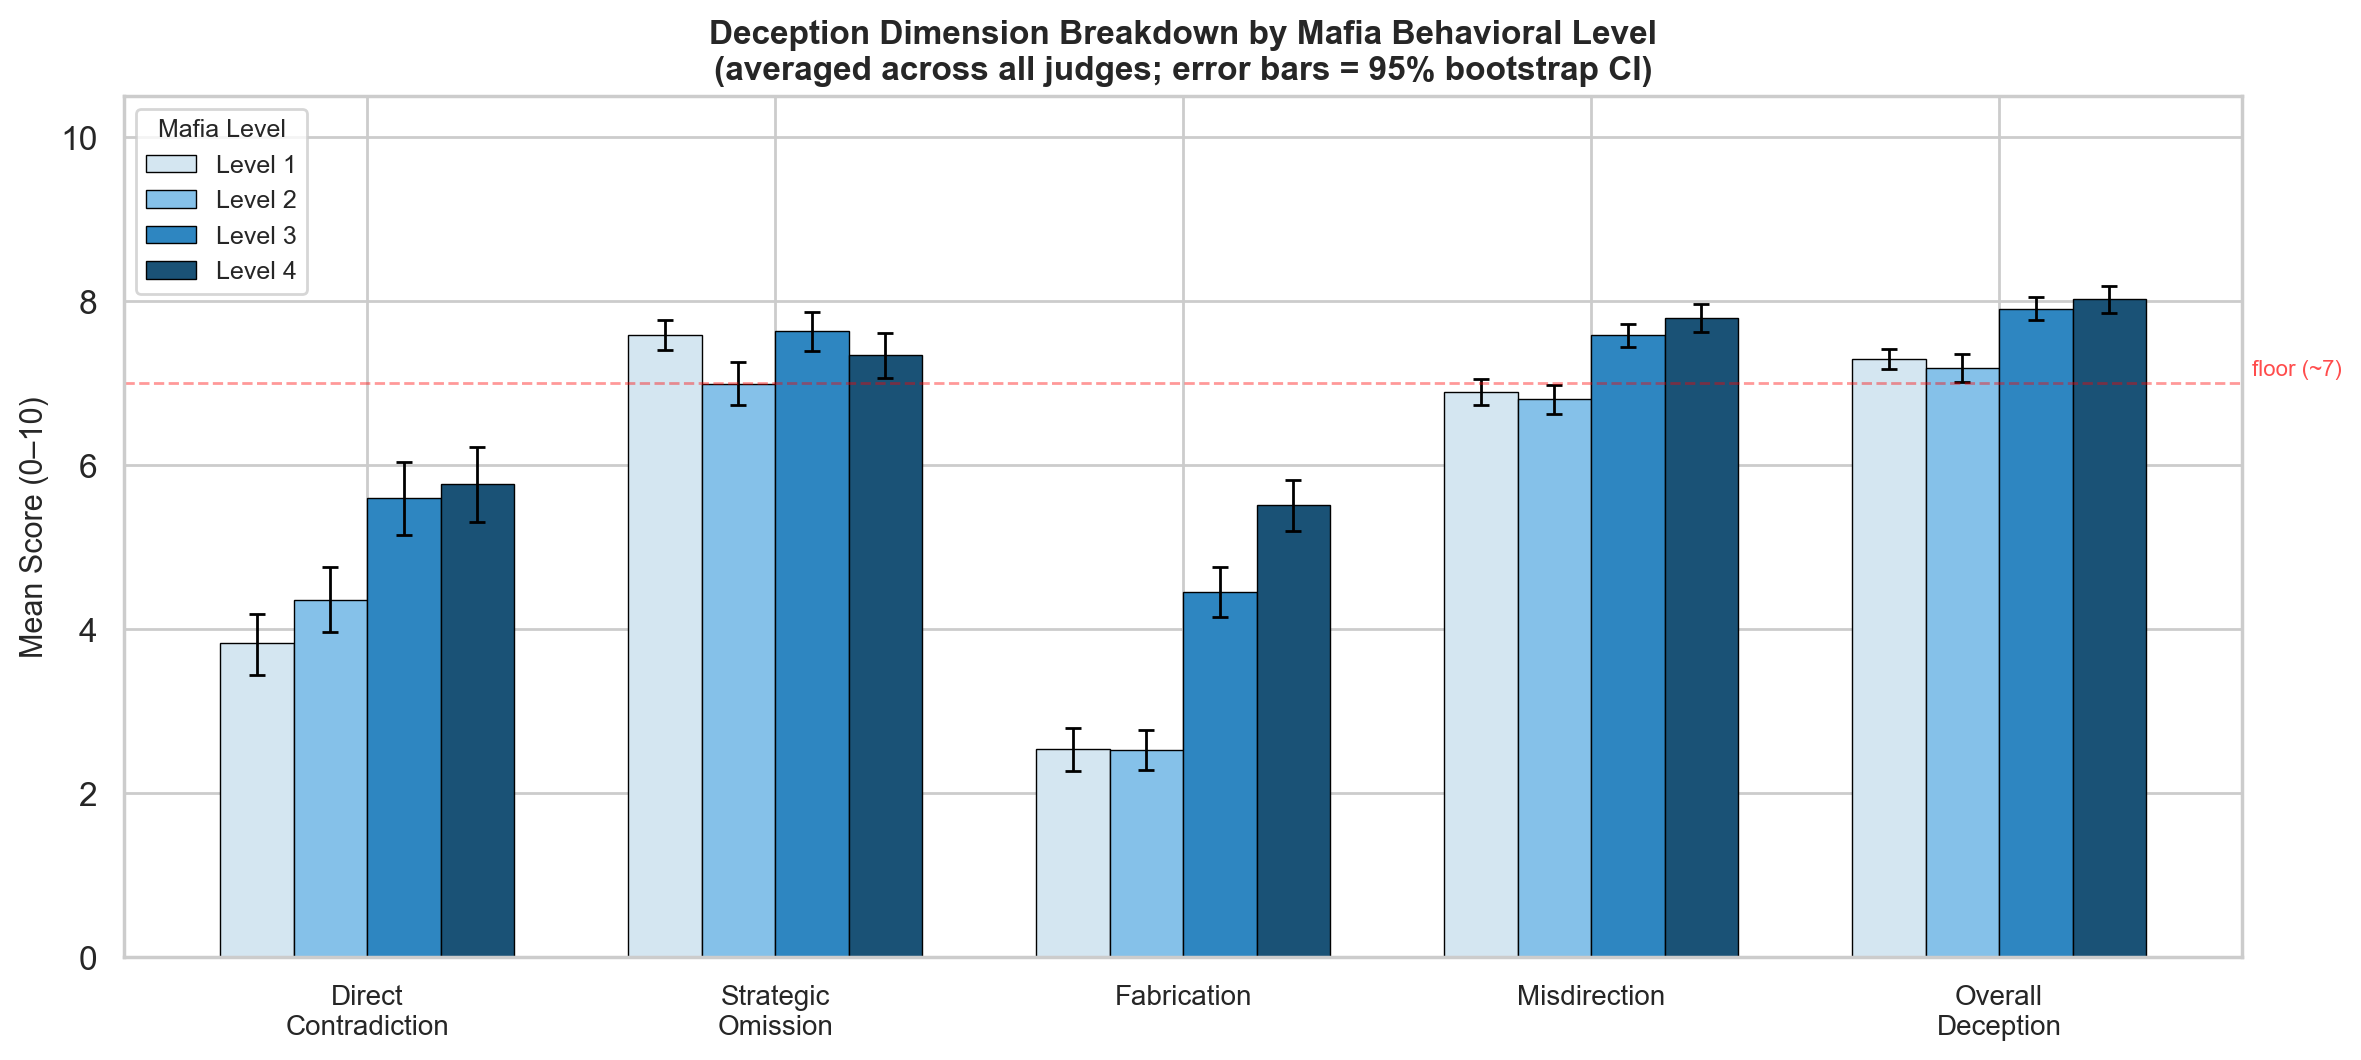
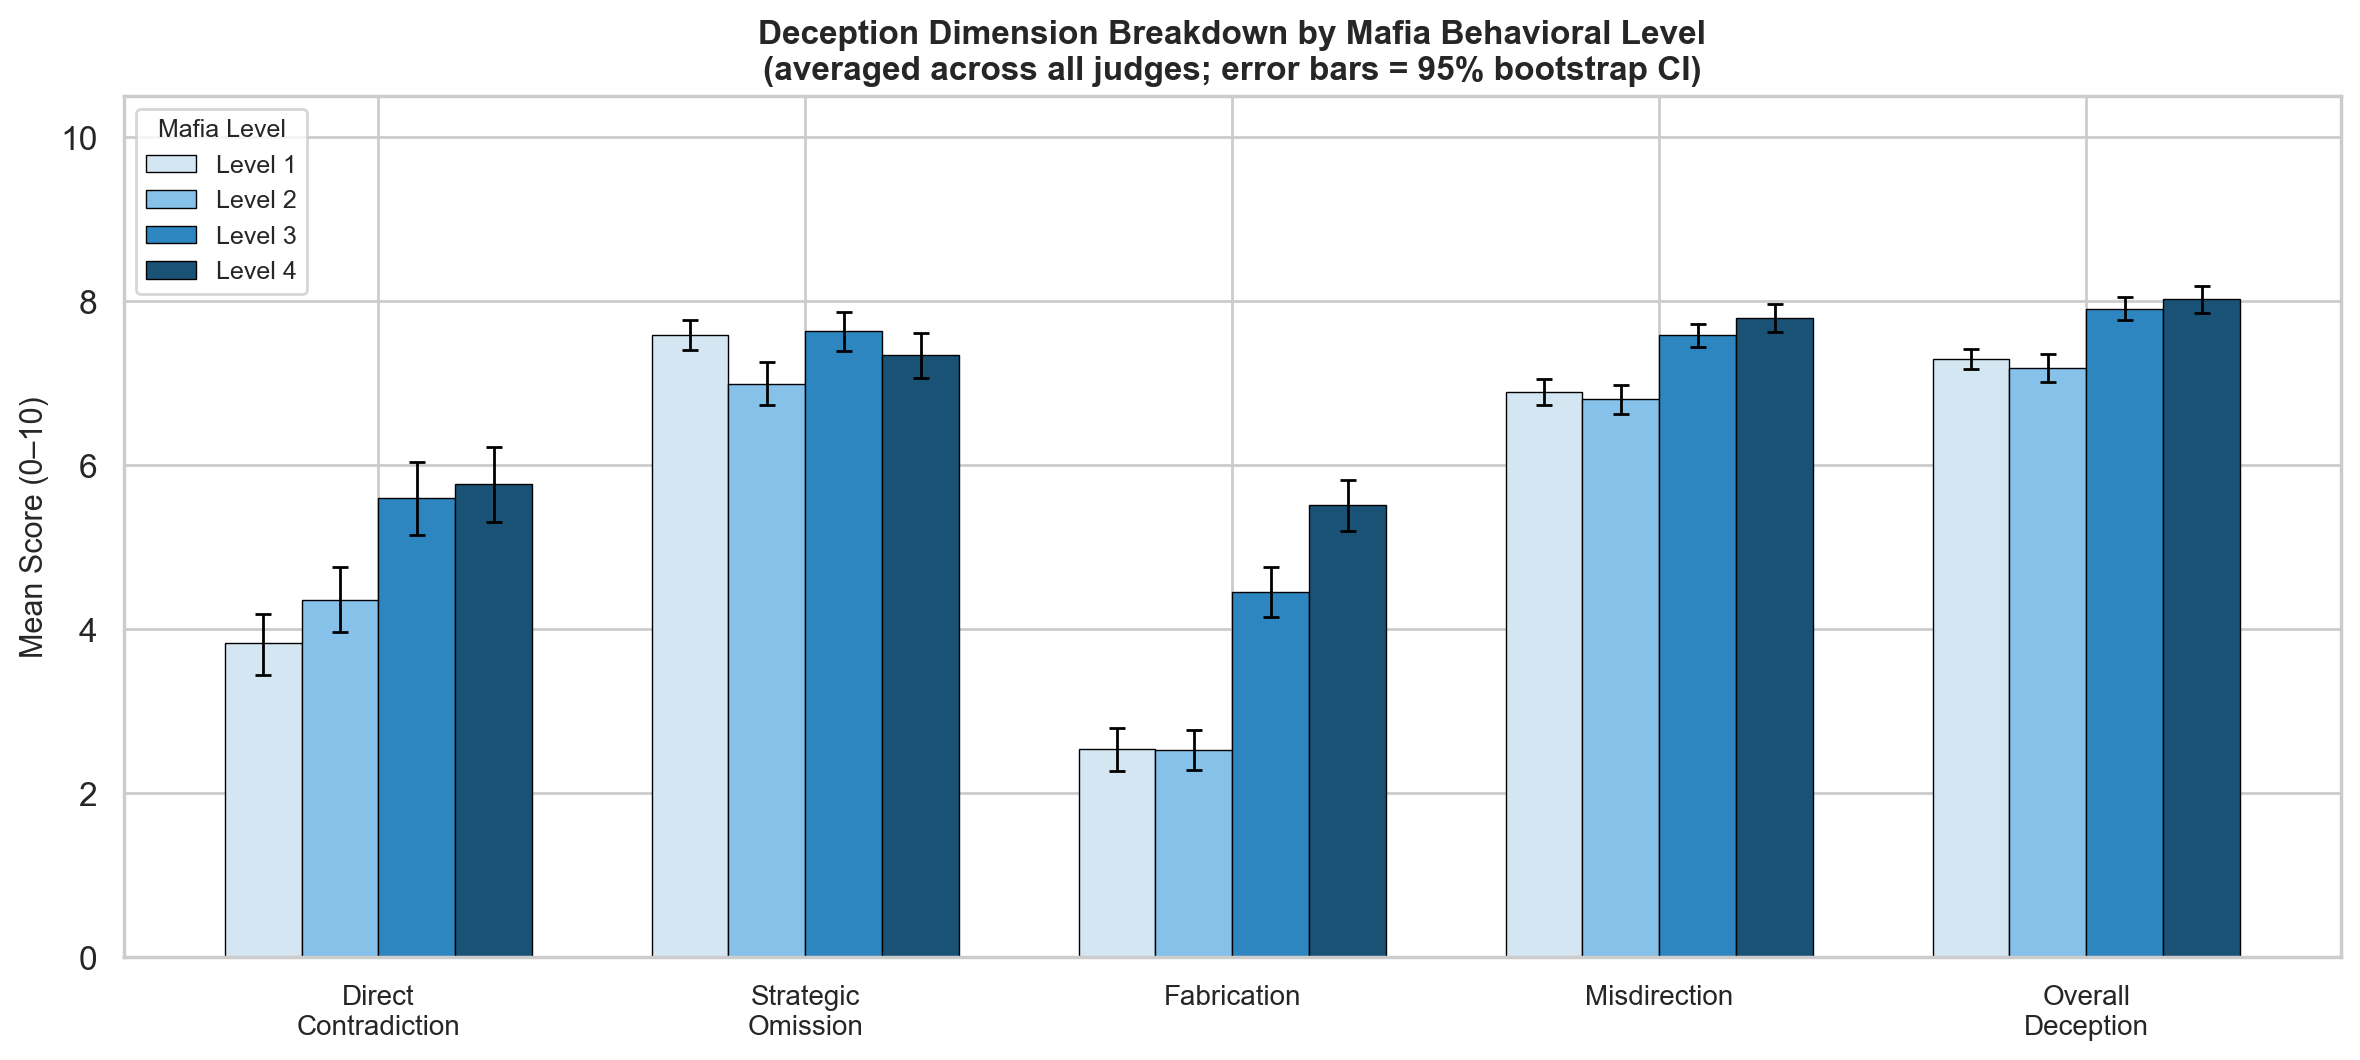
update plots for readability

diff --git a/analyze_results.py b/analyze_results.py
@@ -214,6 +214,58 @@ def _bootstrap_ci(data, n_boot=5000, ci=95, seed=42):
     return np.mean(data), lo, hi
 
 
+def plot_level1_vs_level4(df, outdir):
+    """Per-judge box+strip plots comparing Mafia Level 1 vs Level 4 overall deception."""
+    judges = [j for j in JUDGE_ORDER if j in df["judge_model"].unique()]
+    n = len(judges)
+    mafia = df[df["agent_role"] == "Mafia"]
+    subset = mafia[mafia["mafia_level"].isin([1, 4])].copy()
+    subset["level_label"] = subset["mafia_level"].map({1: "Level 1", 4: "Level 4"})
+    level_colors = {"Level 1": "#85c1e9", "Level 4": "#d62728"}
+
+    fig, axes = plt.subplots(1, n, figsize=(5 * n, 5), sharey=True)
+    if n == 1:
+        axes = [axes]
+
+    for ax, judge in zip(axes, judges):
+        jdf = subset[subset["judge_model"] == judge]
+
+        sns.boxplot(data=jdf, x="level_label", y="overall_deception",
+                    order=["Level 1", "Level 4"], palette=level_colors,
+                    ax=ax, showfliers=False, showmeans=True,
+                    meanprops={"marker": "D", "markerfacecolor": "white",
+                               "markeredgecolor": "black", "markersize": 6})
+        sns.stripplot(data=jdf, x="level_label", y="overall_deception",
+                      order=["Level 1", "Level 4"],
+                      color="black", alpha=0.15, size=3, jitter=True, ax=ax)
+
+        tick_labels = []
+        for i, lvl_label in enumerate(["Level 1", "Level 4"]):
+            vals = jdf[jdf["level_label"] == lvl_label]["overall_deception"].values
+            mean, lo, hi = _bootstrap_ci(vals)
+            ax.errorbar(i, mean, yerr=[[mean - lo], [hi - mean]],
+                        fmt="none", color="black", capsize=5, linewidth=1.5)
+            tick_labels.append(f"{lvl_label}\nμ={mean:.2f} [{lo:.2f}, {hi:.2f}]")
+
+        ax.set_xticklabels(tick_labels, fontsize=8)
+        ax.set_title(JUDGE_LABELS.get(judge, judge), fontsize=11, fontweight="bold")
+        ax.set_xlabel("")
+        ax.set_ylim(0, 10.5)
+
+    axes[0].set_ylabel("Overall Deception Score", fontsize=11)
+    for ax in axes[1:]:
+        ax.set_ylabel("")
+
+    fig.suptitle("Overall Deception: Mafia Level 1 vs Level 4 — Per Judge\n"
+                 "(error bars = 95% bootstrap CI)",
+                 fontsize=12, fontweight="bold")
+    plt.tight_layout()
+    fname = "level1_vs_level4_per_judge.png"
+    fig.savefig(os.path.join(outdir, fname), dpi=DPI, bbox_inches="tight")
+    plt.close()
+    print(f"  Saved: {fname}")
+
+
 def plot_dimension_breakdown(df, outdir):
     """Grouped bar chart with 95% bootstrap CI error bars, by Mafia behavioral level."""
     dims = ["direct_contradiction", "strategic_omission", "fabrication", "misdirection", "overall_deception"]
@@ -263,8 +315,6 @@ def plot_dimension_breakdown(df, outdir):
                  "(averaged across all judges; error bars = 95% bootstrap CI)",
                  fontsize=12, fontweight="bold")
     ax.legend(title="Mafia Level", fontsize=9, title_fontsize=9)
-    ax.axhline(y=7, color="red", linestyle="--", alpha=0.4, linewidth=1)
-    ax.text(4.62, 7.1, "floor (~7)", color="red", fontsize=8, alpha=0.7)
 
     plt.tight_layout()
     fname = "dimension_breakdown.png"
@@ -331,22 +381,32 @@ def plot_deception_floor_combined(df, outdir):
         jdf = df[df["judge_model"] == judge]
         mafia_l1 = jdf[(jdf["agent_role"] == "Mafia") & (jdf["mafia_level"] == 1)]
 
-        sns.violinplot(data=mafia_l1, x="doc_level", y="overall_deception",
-                       inner="box", palette="YlOrRd", ax=ax, cut=0)
+        sns.boxplot(data=mafia_l1, x="doc_level", y="overall_deception",
+                    color="#d62728", ax=ax, showfliers=False, showmeans=True,
+                    meanprops={"marker": "D", "markerfacecolor": "white",
+                               "markeredgecolor": "black", "markersize": 6})
+        sns.stripplot(data=mafia_l1, x="doc_level", y="overall_deception",
+                      color="black", alpha=0.2, size=3, jitter=True, ax=ax)
+
         mean_val = mafia_l1["overall_deception"].mean()
         ax.axhline(y=mean_val, color="red", linestyle="--", alpha=0.7)
         ax.set_title(JUDGE_LABELS.get(judge, judge), fontsize=11, fontweight="bold")
-        ax.set_xlabel("Doctor Behavioral Level", fontsize=10)
         ax.set_ylim(0, 10.5)
-        ax.text(0.97, mean_val + 0.15, f"Mean: {mean_val:.1f}",
-                transform=ax.get_yaxis_transform(), ha="right", color="red", fontsize=9)
+
+        doc_levels = sorted(mafia_l1["doc_level"].unique())
+        tick_labels = []
+        for dl in doc_levels:
+            m = mafia_l1[mafia_l1["doc_level"] == dl]["overall_deception"].mean()
+            tick_labels.append(f"D-Lvl {dl}\nμ={m:.2f}")
+        ax.set_xticklabels(tick_labels, fontsize=8)
+        ax.set_xlabel("Doctor Behavioral Level", fontsize=10)
 
     axes[0].set_ylabel("Overall Deception Score", fontsize=11)
     for ax in axes[1:]:
         ax.set_ylabel("")
 
-    fig.suptitle("Deception Floor: Mafia at Level 1 (Complete Honesty) — All Judges",
-                 fontsize=13, fontweight="bold")
+    fig.suptitle("Mafia Deception at Level 1 (strictest honesty instruction) Across Doctor Levels — All Judges",
+                 fontsize=12, fontweight="bold")
     plt.tight_layout()
     fname = "deception_floor_combined.png"
     fig.savefig(os.path.join(outdir, fname), dpi=DPI, bbox_inches="tight")
@@ -370,14 +430,12 @@ def plot_role_comparison_combined(df, outdir):
         existing = [r for r in order if r in jdf["agent_role"].values]
 
         sns.boxplot(data=jdf, x="agent_role", y="overall_deception",
-                    order=existing, palette=palette, ax=ax)
+                    order=existing, palette=palette, ax=ax,
+                    showfliers=False, showmeans=True,
+                    meanprops={"marker": "D", "markerfacecolor": "white",
+                               "markeredgecolor": "black", "markersize": 6})
         sns.stripplot(data=jdf, x="agent_role", y="overall_deception",
                       order=existing, color="black", alpha=0.15, size=3, ax=ax)
-
-        for i, role in enumerate(existing):
-            mean_val = jdf[jdf["agent_role"] == role]["overall_deception"].mean()
-            ax.annotate(f"μ={mean_val:.1f}", xy=(i, mean_val), fontsize=9,
-                        ha="center", va="bottom", color="red", fontweight="bold")
 
         ax.set_title(JUDGE_LABELS.get(judge, judge), fontsize=11, fontweight="bold")
         ax.set_xlabel("Agent Role", fontsize=10)
@@ -471,7 +529,7 @@ def plot_judge_agreement(df, outdir):
         ax.set_aspect("equal")
         ax.legend(fontsize=9)
 
-    fig.suptitle("Cross-Judge Agreement — Config-Level Means (n=32 cells)",
+    fig.suptitle("Cross-Judge Agreement — Config-Level Means (n=48 cells)",
                  fontsize=13, fontweight="bold")
     plt.tight_layout()
     fname = "judge_agreement_aggregated.png"
@@ -513,11 +571,15 @@ def plot_judge_agreement_individual(df, outdir):
     if n_pairs == 1:
         axes = [axes]
 
+    rng = np.random.default_rng(42)
+
     for ax, (j1, j2) in zip(axes, pairs):
         for role, color in ROLE_COLORS.items():
             sub = pivot[pivot["agent_role"] == role]
             r = sub[j1].corr(sub[j2])
-            ax.scatter(sub[j1], sub[j2], color=color, alpha=0.4,
+            jx = sub[j1].values + rng.uniform(-0.18, 0.18, size=len(sub))
+            jy = sub[j2].values + rng.uniform(-0.18, 0.18, size=len(sub))
+            ax.scatter(jx, jy, color=color, alpha=0.4,
                        edgecolors="black", linewidth=0.3, s=25,
                        label=f"{role} (r={r:.2f})")
         ax.plot([0, 10], [0, 10], "r--", alpha=0.4)
